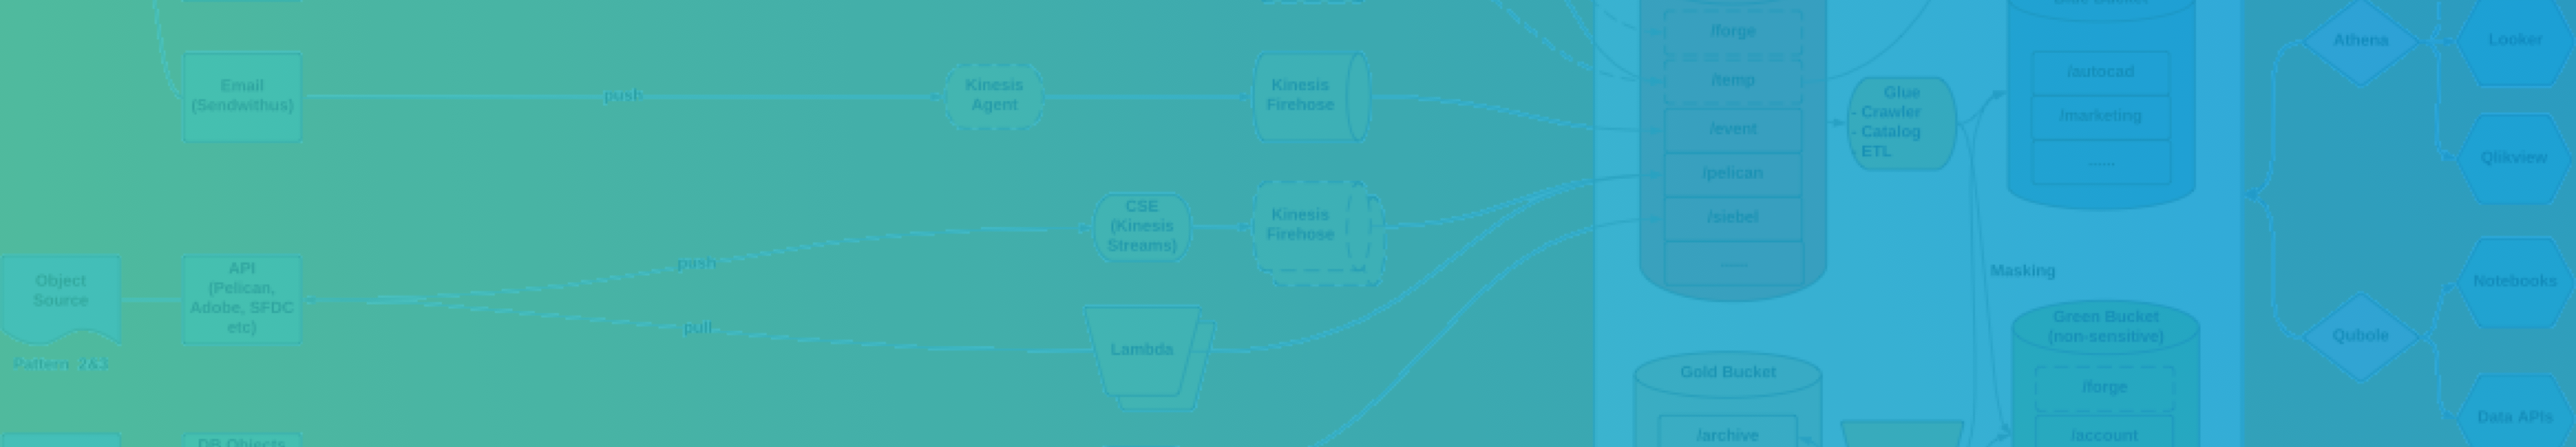
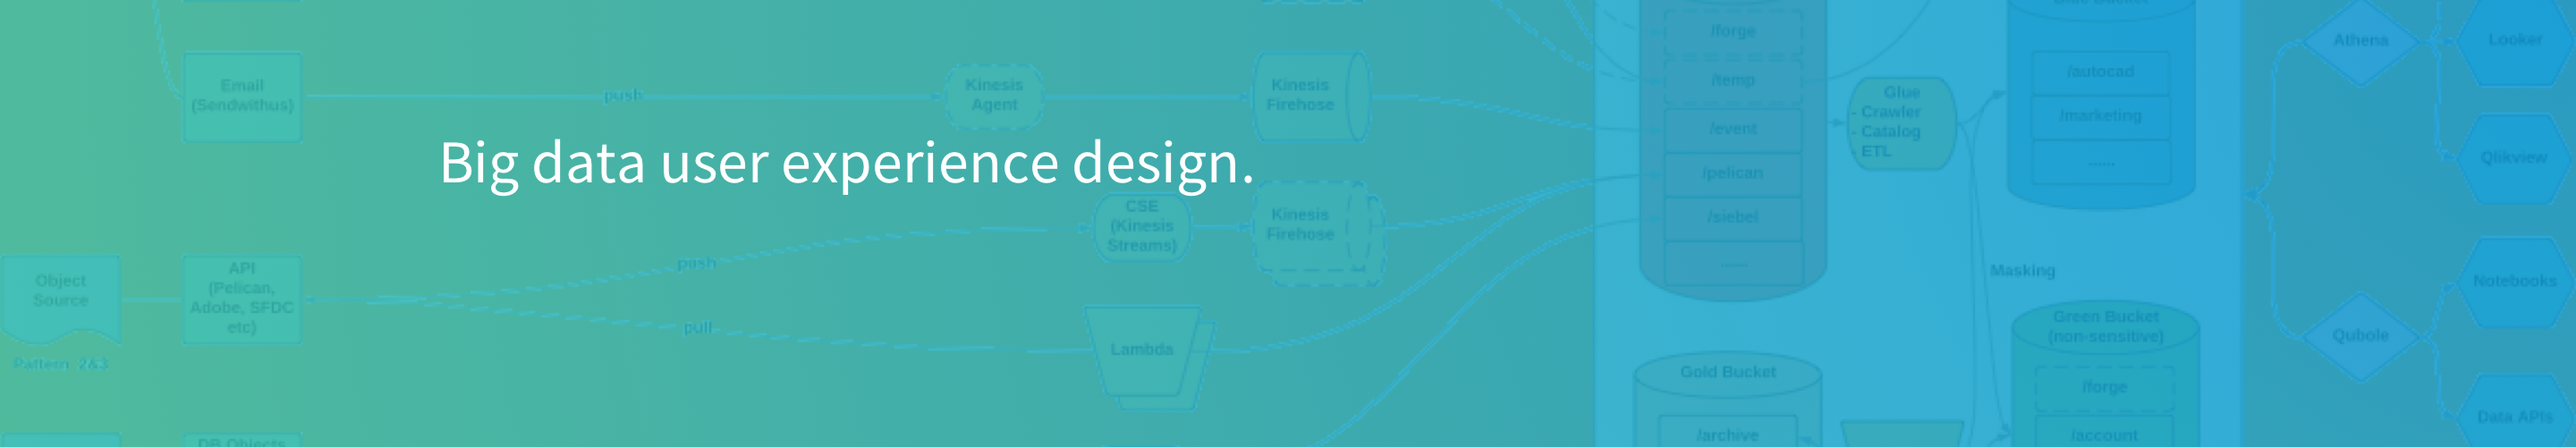
updating CC graphic

Changed region(s): [[0.1562, 0.3, 0.5, 0.45]]

diff --git a/index.html b/index.html
@@ -18,7 +18,7 @@
     <div class="columns">
       <div class="column is-2">
         <div class="navbar-item">
-          <a class="nav-active" href="index.html">Work</a>
+          <a class="nav-active" href="index.html">Case Studies</a>
         </div>
       </div>
       <div class="column is-8">
@@ -54,7 +54,7 @@
     <div class="columns">
       <div class="tile-target column is-half">
         <figure class="image is-3by2">
-            <img src="assets/CC/tile-white.png" alt="Creative Commons" class="load-image">
+            <img src="assets/CC/tile-tri-device.png" alt="Creative Commons" class="load-image">
             
             <a href="dist/templates/cc.html">
             <div class="hidden home-tile-text">
@@ -68,7 +68,7 @@
                     Chooser tool to help Creative Commons users understand and find the licenses they need.
                   </p>
                   <p class="header-3">
-                     Mobile UX Design, Visual Design, Prototyping
+                     UX Design, Visual Design, Prototyping
                   </p>
 
                   <!-- TAGS, NOT SURE -->
@@ -96,7 +96,7 @@
                       Website and data portal redesign for California childwelfare workers.
                     </p>
                     <p class="header-3">
-                       Desktop UX Design, Visual Design, User Research
+                       UX Design, Visual Design, User Research
                     </p>
 
                     <!-- TAGS, NOT SURE -->
@@ -128,7 +128,7 @@
                     </p> -->
                     
                     <p class="paragraph-light">
-                      Concept for Autodesk's next generation data platform. 
+                      Digital concept for Autodesk's next generation data platform. 
                     </p>
                     <p class="header-3">
                        Concept Development, User Research, Service Design
@@ -146,7 +146,7 @@
       </div>
       <div class="tile-target column is-half">
           <figure class="image is-3by2">
-              <img src="assets/Nueva/tile.png" alt="Description" class="load-image">
+              <img src="assets/Nueva/tile-exploded.png" alt="Description" class="load-image">
               <a href="dist/templates/nueva.html">
                 <div class="hidden home-tile-text">
                     <!-- NOT SURE -->
@@ -155,7 +155,7 @@
                     </p> -->
                     
                     <p class="paragraph-light">
-                      Storytelling platform to give the Nueva community a tool to tell its story.
+                      Storytelling platform to give a school community the tools to tell its story.
                     </p>
                     <p class="header-3">
                        UX Design, User Research, Service Design

diff --git a/dist/templates/cc.html b/dist/templates/cc.html
@@ -19,7 +19,7 @@
     <div class="columns">
       <div class="column is-2">
         <div class="navbar-item">
-          <a class="nav-active" href="../../index.html">Work</a>
+          <a class="nav-active" href="../../index.html">Case Studies</a>
         </div>
       </div>
       <div class="column is-8">
@@ -50,35 +50,7 @@
 
 <!-- TOP FOLD -->
 <section class="hero hero-section">
-  <div class="columns cc-bg-img">
-    <div class="column is-offset-1 is-10">
-      <div class="columns">
-        <div class="column is-3 vertical-center">
-          <p class="blockquote" style="
-          color: white; 
-          padding: 0; 
-          font-weight: 400; 
-          font-size: 2.5em;">
-            User agency,<br>
-            platform agnostic.
-          </p>
-        </div>
-        <div class="column is-6">
-          <iframe width="100%" height="275" src="https://www.youtube.com/embed/FRtFQnNJARk" frameborder="0" allow="accelerometer; autoplay; encrypted-media; gyroscope; picture-in-picture" allowfullscreen></iframe>
-        </div>
-        <div class="column is-3 vertical-center">
-          <p class="blockquote" style="
-          text-align: right; 
-          color: #EF9421; 
-          padding: 0; 
-          text-transform: uppercase; 
-          font-weight: 400; 
-          font-size: 2.5em;">
-            
-          </p>
-        </div>
-      </div>
-    </div>
+  <div class="cc-bg-img">
   </div>
   <div class="columns">
     <div class="column is-8 is-offset-2">

diff --git a/dist/templates/nueva.html b/dist/templates/nueva.html
@@ -25,7 +25,7 @@
     <div class="columns">
       <div class="column is-2">
         <div class="navbar-item">
-          <a class="nav-active" href="../../index.html">Work</a>
+          <a class="nav-active" href="../../index.html">Case Studies</a>
         </div>
       </div>
       <div class="column is-8">
@@ -56,18 +56,7 @@
 
 <!-- TOP FOLD -->
 <section class="hero hero-section">
-  <div class="columns nueva-bg-img">
-    <div class="column is-offset-2">
-      <div class="hero-body">
-          <!-- <p class="blockquote" style="
-          color: white; 
-          font-weight: 400;
-          padding: 0; 
-          font-size: 2.5em;">
-            Big data user experience design. 
-          </p> -->
-      </div>
-    </div>
+  <div class="nueva-bg-img">
   </div>
   <div class="columns">
     <div class="column is-8 is-offset-2">

diff --git a/dist/templates/autodesk.html b/dist/templates/autodesk.html
@@ -25,7 +25,7 @@
     <div class="columns">
       <div class="column is-2">
         <div class="navbar-item">
-          <a class="nav-active" href="../../index.html">Work</a>
+          <a class="nav-active" href="../../index.html">Case Studies</a>
         </div>
       </div>
       <div class="column is-8">
@@ -57,17 +57,6 @@
 <!-- TOP FOLD -->
 <section class="hero hero-section">
   <div class="columns autodesk-bg-img">
-    <div class="column is-offset-2">
-      <div class="hero-body">
-          <p class="blockquote" style="
-          color: white; 
-          font-weight: 400;
-          padding: 0; 
-          font-size: 2.5em;">
-            Big data user experience design. 
-          </p>
-      </div>
-    </div>
   </div>
   <div class="columns">
     <div class="column is-8 is-offset-2">

diff --git a/dist/templates/about.html b/dist/templates/about.html
@@ -18,7 +18,7 @@
     <div class="columns">
       <div class="column is-2">
         <div class="navbar-item">
-          <a class="nav-inactive" href="../../index.html">Work</a>
+          <a class="nav-inactive" href="../../index.html">Case Studies</a>
         </div>
       </div>
       <div class="column is-8">

diff --git a/dist/templates/ccwip.html b/dist/templates/ccwip.html
@@ -25,7 +25,7 @@
     <div class="columns">
       <div class="column is-2">
         <div class="navbar-item">
-          <a class="nav-active" href="../../index.html">Work</a>
+          <a class="nav-active" href="../../index.html">Case Studies</a>
         </div>
       </div>
       <div class="column is-8">

diff --git a/dist/templates/project.html b/dist/templates/project.html
@@ -17,7 +17,7 @@
     <div class="columns">
       <div class="column is-2">
         <div class="navbar-item">
-          <a class="nav-active" href="work.html">Work</a>
+          <a class="nav-active" href="work.html">Case Studies</a>
         </div>
       </div>
       <div class="column is-8">

diff --git a/dist/templates/work.html b/dist/templates/work.html
@@ -17,7 +17,7 @@
     <div class="columns">
       <div class="column is-2">
         <div class="navbar-item">
-          <a class="nav-active" href="work.html">Work</a>
+          <a class="nav-active" href="work.html">Case Studies</a>
         </div>
       </div>
       <div class="column is-8">

diff --git a/dist/css/mystyles.css b/dist/css/mystyles.css
@@ -247,11 +247,13 @@
 
 .tile-target:hover .hidden {
   z-index: 2;
-  opacity: 0.9; }
+  opacity: 0.9;
+  transition-duration: 2; }
 
 .tile-target:hover .load-image {
   opacity: 0.08;
-  z-index: 1; }
+  z-index: 1;
+  transition-duration: 2; }
 
 .hidden {
   position: absolute;

diff --git a/src/mystyles.scss b/src/mystyles.scss
@@ -318,12 +318,13 @@ $tag-radius: 0px;
 .tile-target:hover .hidden {
   z-index: 2;
   opacity: 0.9;
-
+  transition-duration: 2;
 }
 
 .tile-target:hover .load-image {
   opacity: 0.08;
   z-index: 1;
+  transition-duration: 2;
 }
 
 .hidden {

diff --git a/dist/css/cc_styles.css b/dist/css/cc_styles.css
@@ -1,6 +1,8 @@
 .cc-bg-img {
   background: url('../../assets/CC/background-gradient-cartoon.png'); 
   background-size: cover;
+  margin-bottom: 1%;
+  height: 11em;
 }
 
 .vertical-center {

diff --git a/dist/css/ccwip_styles.css b/dist/css/ccwip_styles.css
@@ -1,6 +1,6 @@
 .ccwip-bg-img {
   background: url('../../assets/CCWIP/banner-ccwip.png'); 
   background-size:cover; 
-  height: 250px;
   margin-bottom: 1%;
+  height: 11em;
 }
